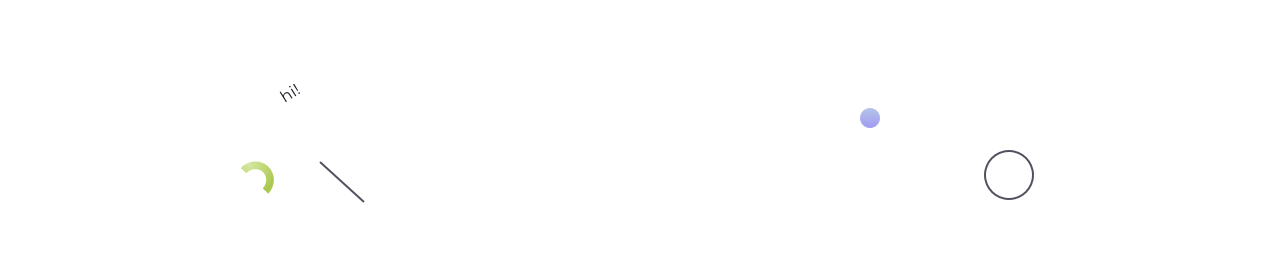
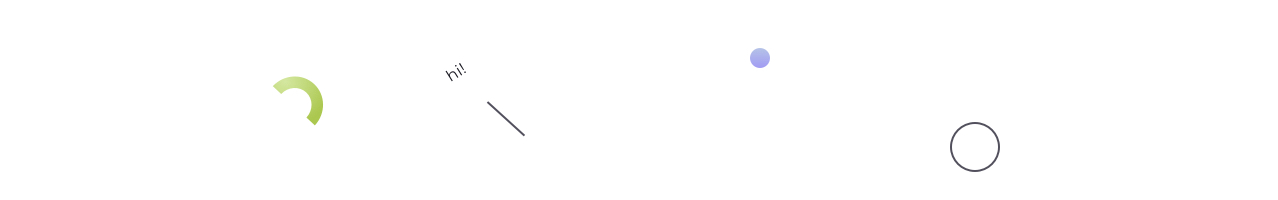
about page illustrations adjusted for smaller devices

diff --git a/css/test.style.css b/css/test.style.css
@@ -109,13 +109,11 @@ p {
 
 /* --------------------------------- ABOUT STYLING STARTS--------------------------------- */
 #aboutme {
-  padding-top: 130px;
+  padding-top: 150px;
 }
 
 
 .boxabout {
-  width:100%;
-  height: 200px;
   background: url(../img/fun/fun-shapes-about.jpg);
   background-repeat: no-repeat;
   background-size: cover;
@@ -566,6 +564,15 @@ Extra-large devices (1920px or larger)
     background-position: center;
   }
 
+  .boxabout {
+    background: url(../img/fun/fun-shapes-about.jpg);
+    padding: 20px;
+    background-repeat: no-repeat;
+    background-size: cover;
+    background-position: center;
+    height: 150px;
+  }
+
   .row {
     display: flex;
     max-width: 1200px;
@@ -692,6 +699,13 @@ nav>ul>li {
   flex-direction: row;
 }
 
+.boxabout {
+  background: url(../img/fun/fun-shapes-about-small.jpg);
+  background-repeat: no-repeat;
+  background-position: center;
+  padding: 20px;
+  height: 150px;
+}
 }
 
 /* Override: On screens that are 641px wide or less */
@@ -740,7 +754,10 @@ nav>ul>li {
   top: 15px;
   padding-right: 0;
 }
-
+.boxabout {
+  background: none;
+  height:0px;
+}
   .box {
     background: none;
     padding: 20px;
@@ -772,6 +789,42 @@ nav>ul>li {
     padding: 0 20px;
     padding-top: 120px;
   }
+
+
+  #aboutsummary p {
+    padding-top: 0px;
+    padding-bottom: 20px;
+  }
+
+  #skillset {
+  padding-top: 50px;
+  padding-bottom: 20px;
+  }
+    .rowabout {
+      display: flex;
+      max-width: 1200px;
+      justify-content: space-between;
+    }
+
+    #aboutsummary h2 {
+      padding-top: 10px;
+      padding-bottom: 10px;
+    }
+      #skillset.rowabout {
+        padding-top: 20px;
+      }
+
+
+    .aboutmetext {
+      display: flex;
+      text-align: left;
+    }
+
+    .skills-container {
+      margin-bottom: 0px;
+      overflow: hidden;
+      padding: 20px;
+    }
 }
 
 /* Override: On screens that are 545px wide or less */
@@ -817,6 +870,12 @@ nav>ul>li {
   padding-right: 0;
 }
 
+.boxabout {
+  background: none;
+  height:0px;
+}
+
+
   .box {
     background: none;
     padding: 20px;
@@ -825,6 +884,14 @@ nav>ul>li {
     background-position: center;
     margin-bottom: 0px;
     margin-top: 0px;
+  }
+
+#aboutsummary h2 {
+  padding-top: 10px;
+  padding-bottom: 10px;
+}
+  #skillset.rowabout {
+    padding-top: 20px;
   }
 
   .row {
@@ -848,6 +915,7 @@ nav>ul>li {
     padding: 0 20px;
     padding-top: 120px;
   }
+
 }
 
 /* Override: On screens that are 507px wide or less */
